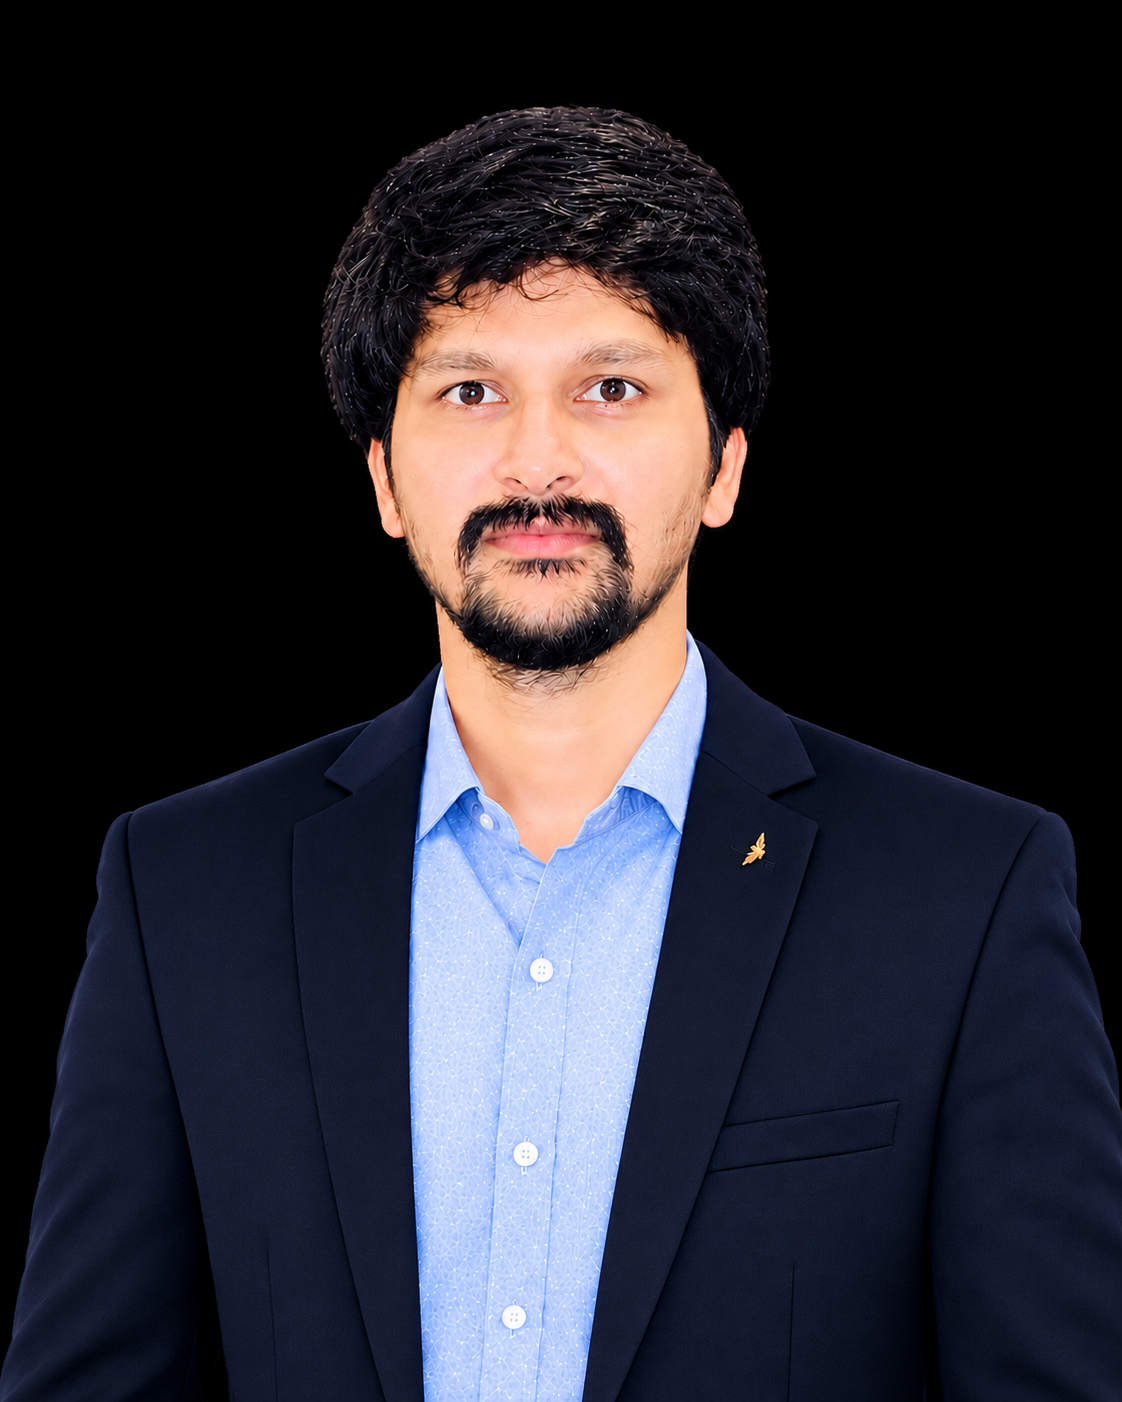
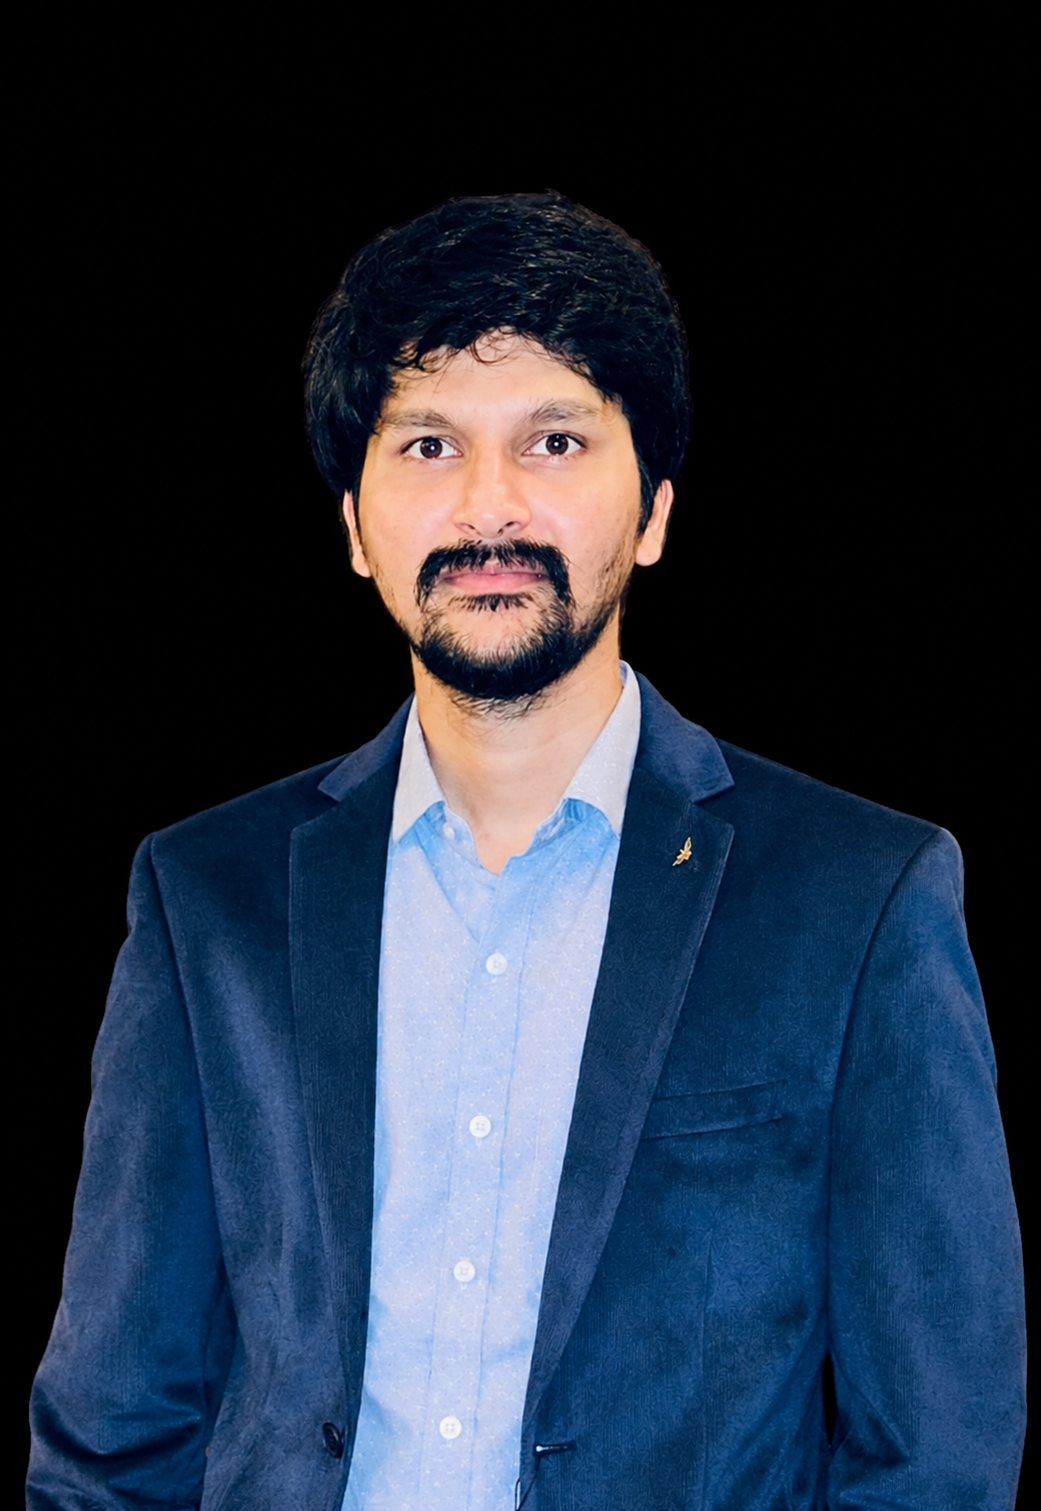
2 profiles pics updated

diff --git a/index.html b/index.html
@@ -891,7 +891,7 @@
                 <div class="avatar">
                   <span aria-hidden="true">SI</span
                   ><img
-                    src="assets/images/team/Founder & Director.png"
+                    src="assets/images/team/sri.png"
                     alt="Photo of Sriram Injarapu"
                     width="400"
                     height="400"
